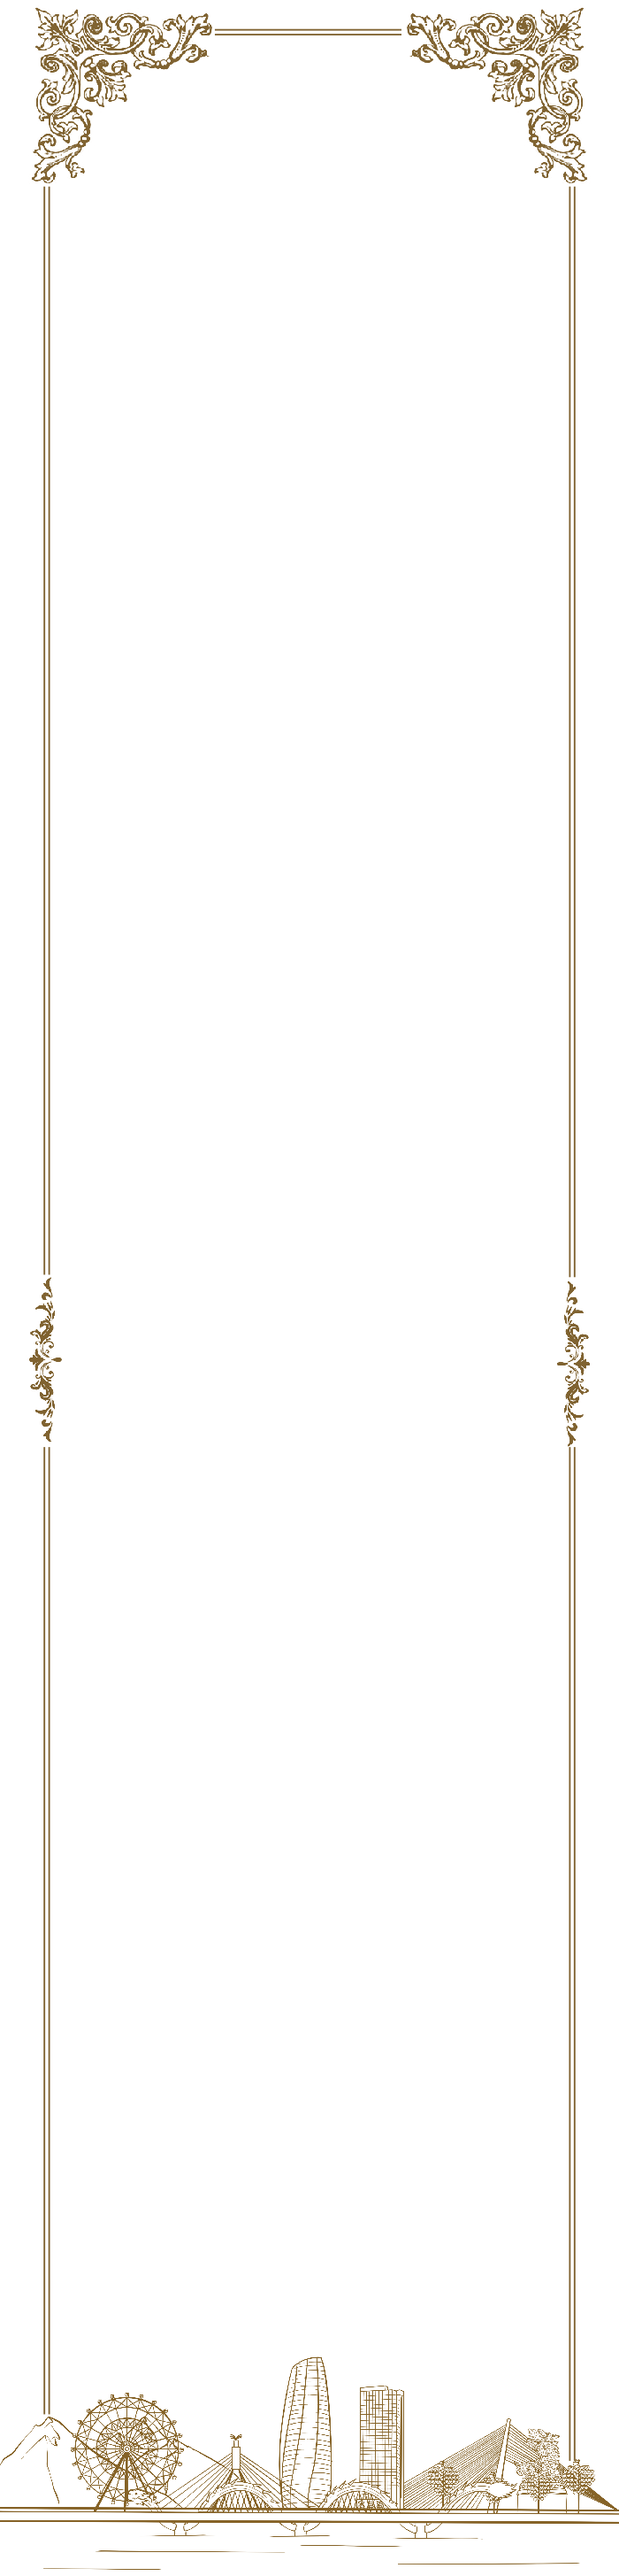
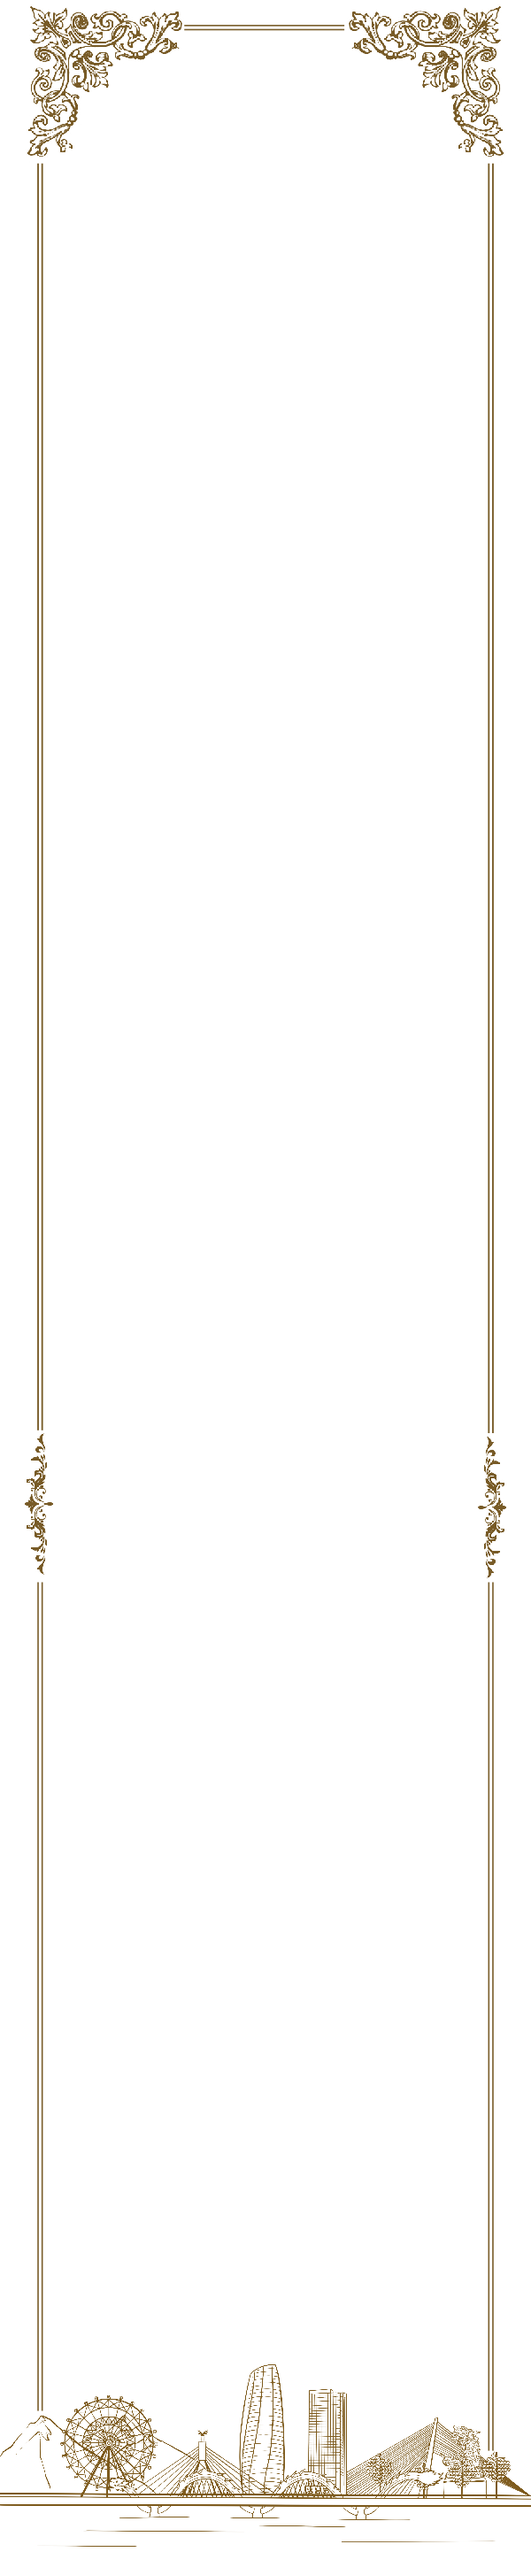
Update

Changed region(s): [[0.0, 0.0, 1.0, 0.999]]

diff --git a/dist/css/main.css b/dist/css/main.css
@@ -401,10 +401,10 @@ section {
   width: 100%;
 }
 .intro .content {
-  background: url("../../assets/images/bg/bg_01.png") no-repeat center/contain;
+  background: url("../../assets/images/bg/bg1.png") no-repeat center/contain;
   width: 100%;
   max-width: 500px;
-  aspect-ratio: 500/2310;
+  aspect-ratio: 500/2445;
   position: relative;
   box-sizing: border-box;
   display: flex;
@@ -420,11 +420,11 @@ section {
   align-items: center;
 }
 .intro .content .invitation .logo {
-  padding: 20% 0 12%;
+  padding: 22% 0 7%;
   perspective: 500px;
 }
 .intro .content .invitation .logo img {
-  max-width: 80px;
+  max-width: 164px;
   width: 100%;
   height: auto;
 }
@@ -590,7 +590,7 @@ section {
 }
 @media (max-width: 500px) {
   .intro .content .invitation .logo img {
-    max-width: 16vw;
+    max-width: 32.8vw;
   }
   .intro .content .invitation .family-info img {
     width: 3.2vw;
@@ -1100,13 +1100,12 @@ section {
 .album-style .img-box-top {
   max-width: 100%;
   width: 100%;
-  aspect-ratio: 10/2.5;
-  background-color: #806331;
+  aspect-ratio: 500/143;
   overflow: hidden;
-  background-image: url("../../assets/images/oflove/4.webp");
+  background-image: url("../../assets/images/oflove/film.png");
   background-repeat: no-repeat;
-  background-size: 125%;
-  background-position: 100% 61%;
+  background-size: 100%;
+  background-position: center;
 }
 .album .highlight {
   width: 100%;
@@ -1494,7 +1493,7 @@ section {
   margin-bottom: 10%;
 }
 .footer .content .logo img {
-  width: 80px;
+  width: 142px;
   height: auto;
   object-fit: cover;
 }
@@ -1552,7 +1551,7 @@ section {
 }
 @media (max-width: 500px) {
   .footer .content .logo img {
-    width: 16vw;
+    width: 28.4vw;
   }
   .footer .content .qr .qr-box .column img {
     max-width: 29.6vw;

diff --git a/assets/scss/sections/_intro.scss b/assets/scss/sections/_intro.scss
@@ -5,10 +5,10 @@
     width: 100%;
 
     .content {
-        background: url('../../assets/images/bg/bg_01.png') no-repeat center / contain;
+        background: url('../../assets/images/bg/bg1.png') no-repeat center / contain;
         width: 100%;
         max-width: 500px;
-        aspect-ratio: 500 / 2310;
+        aspect-ratio: 500 / 2445;
         position: relative;
         box-sizing: border-box;
         display: flex;
@@ -24,11 +24,11 @@
             align-items: center;
 
             .logo {
-                padding: 20% 0 12%;
+                padding: 22% 0 7%;
                 perspective: 500px;
 
                 img {
-                    max-width: 80px;
+                    max-width: 164px;
                     width: 100%;
                     height: auto;
                 }
@@ -247,7 +247,7 @@
             .invitation {
                 .logo {
                     img {
-                        max-width: calc((80 / 500) * 100vw);
+                        max-width: calc((164 / 500) * 100vw);
                     }
                 }
 

diff --git a/assets/scss/sections/_album.scss b/assets/scss/sections/_album.scss
@@ -8,13 +8,13 @@
     &-style .img-box-top {
         max-width: 100%;
         width: 100%;
-        aspect-ratio: 10 / 2.5;
-        background-color: $primary-color;
+        aspect-ratio: 500 / 143;
+        // background-color: $primary-color;
         overflow: hidden;
-        background-image: url('../../assets/images/oflove/4.webp');
+        background-image: url('../../assets/images/oflove/film.png');
         background-repeat: no-repeat;
-        background-size: 125%;
-        background-position: 100% 61%;
+        background-size: 100%;
+        background-position: center;
     }
 
     .highlight {

diff --git a/assets/scss/sections/_footer.scss b/assets/scss/sections/_footer.scss
@@ -35,7 +35,7 @@
             margin-bottom: 10%;
 
             img {
-                width: 80px;
+                width: 142px;
                 height: auto;
                 object-fit: cover;
             }
@@ -103,7 +103,7 @@
         @media (max-width: 500px) {
             .logo {
                 img {
-                    width: calc((80 / 500) * 100vw);
+                    width: calc((142 / 500) * 100vw);
                 }
             }
 
